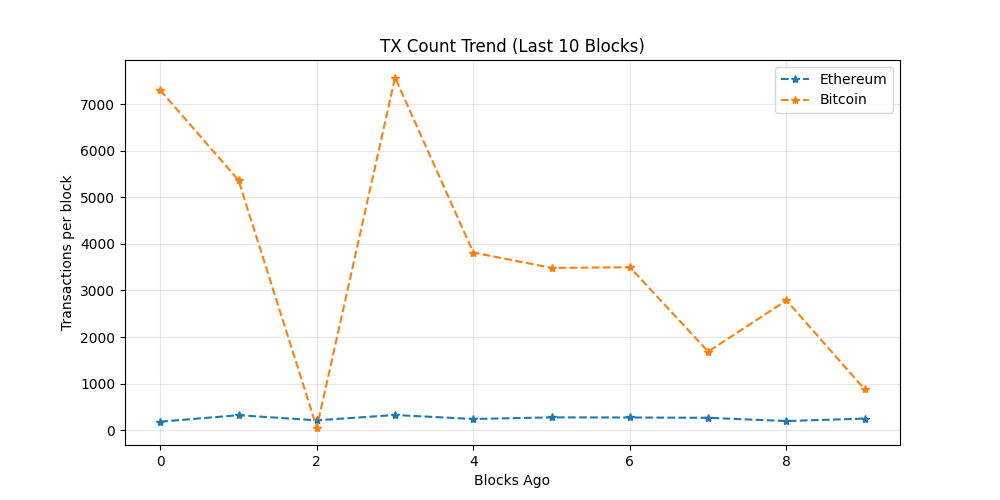
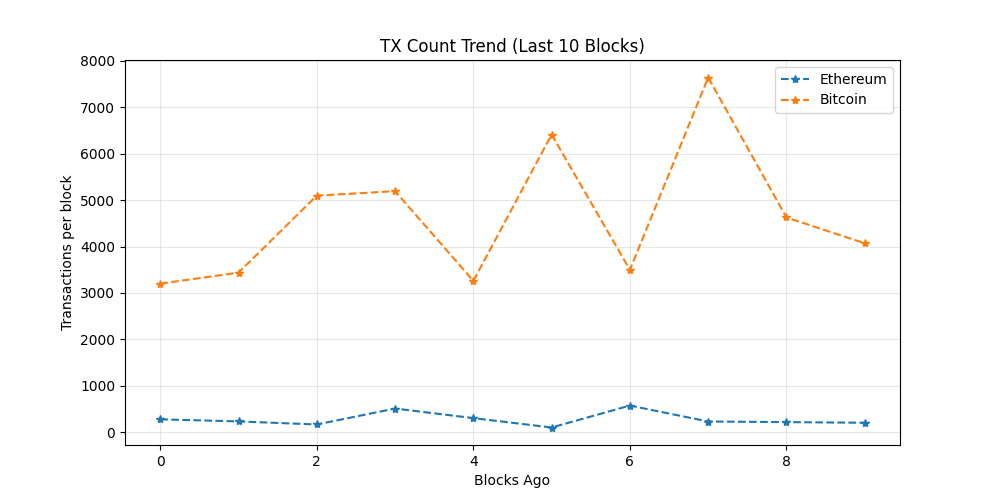
chore: update on-chain dashboard

diff --git a/README.md b/README.md
@@ -19,7 +19,7 @@ The README itself acts as the dashboard and is regenerated automatically on a 6 
 demonstrating a production-style, infrastructure-focused observability workflow rather
 than a traditional UI-driven approach.
 
-_Last updated: 2026-11-25 08:28 UTC_
+_Last updated: 2026-11-25 21:39 UTC_
 
 ## API Usage (GetBlock.io)
 - Calls used: **24**
@@ -27,8 +27,8 @@ _Last updated: 2026-11-25 08:28 UTC_
 ## Network Metrics
 | Chain | Block Height | TX Count | TPS (10 blk avg) | Block Util | Avg Fee |
 |------|-------------|----------|------------------|------------|---------|
-| Ethereum | 26490999 | 250 | 20.83 | 55.57% | 0.1 Gwei |
-| Bitcoin | 977487 | 875 | 13.89 | 35.75% | N/A |
+| Ethereum | 26494937 | 207 | 17.25 | 33.63% | 0.1 Gwei |
+| Bitcoin | 977574 | 4070 | 5.76 | 99.8% | N/A |
 
 ## Visuals
 ### Transactions Trend
@@ -43,9 +43,11 @@ _Last updated: 2026-11-25 08:28 UTC_
 ## Whale Alerts (latest block)
 - Transaction hashes are truncated for readability.
 - Full hashes are available in `dashboards/metrics.json`
-- Bitcoin | 106.73 BTC | `f640f0fcdd43…`
-- Bitcoin | 2486.38 BTC | `1a7bfa1498ba…`
-- Bitcoin | 117.85 BTC | `6dd340744e28…`
+- Bitcoin | 117.09 BTC | `3ce131f3cfe3…`
+- Bitcoin | 102.3 BTC | `fd69acb460f9…`
+- Bitcoin | 101.32 BTC | `150da7ef1e24…`
+- Bitcoin | 106.39 BTC | `4a06b1fc34ba…`
+- Bitcoin | 100.32 BTC | `7a1f77a067ef…`
 
 ## Run locally
 
